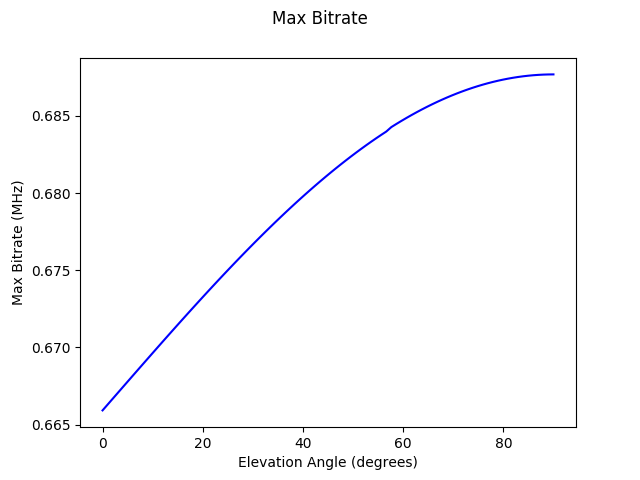
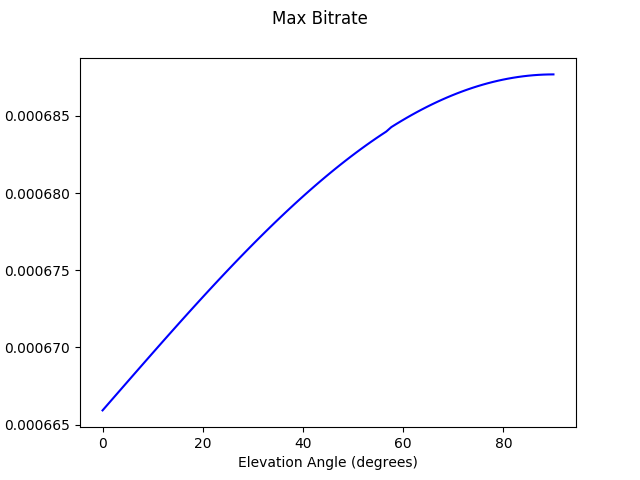
final push

diff --git a/export/interference_analysis.tex b/export/interference_analysis.tex
@@ -68,10 +68,10 @@ Polarization & RHCP & $$ \\
 \\
 \textbf{Transmitter (Satellite Ka-Band Transmitter)} & & \\
 \hline \\
-Transmit Power at PA & 50 & $dBW$ \\
+Transmit Power at PA & 20 & $dBW$ \\
 Inline Losses & 0 & $dB$ \\
-Transmit Power at Antenna & 50 & $dBW$ \\
-EIRP & 53.00 & $dBW$ \\
+Transmit Power at Antenna & 20 & $dBW$ \\
+EIRP & 23.00 & $dBW$ \\
 \\
 \end{tabular}
 
@@ -111,12 +111,12 @@ Total Channel Loss & 238.65 & $dB$ \\
 Modulation Name & DVB-S2X & $$ \\
 Modulation Code & QPSK 13/45 & $$ \\
 Tx Spectral Efficiency & 0.45 & $$ \\
-Bitrate & 1.00 & $MHz$ \\
-Bitrate & 60.00 & $dBHz$ \\
+Bitrate & 0.07 & $Hz$ \\
+Bitrate & -11.43 & $dBHz$ \\
 Required Demodulation $E_b/N_0$ & 0.43 & $dB$ \\
-Required Demod Bandwidth & 1.76 & $MHz$ \\
-Required Demod Bandwidth & 62.46 & $dBHz$ \\
-Required Transmit Bandwidth & 63.43 & $dBHz$ \\
+Required Demod Bandwidth & 0.13 & $Hz$ \\
+Required Demod Bandwidth & -8.97 & $dBHz$ \\
+Required Transmit Bandwidth & -8.00 & $dBHz$ \\
 \\
 \end{tabular}
 
@@ -144,7 +144,7 @@ Total Receiver Noise Temperature & 28.24 & $dBK$ \\
 Receive Chain Noise Temperature & 366.84 & $K$ \\
 Receive Chain Noise Factor & 2.26 & $$ \\
 Receive Chain Noise Figure & 3.55 & $dB$ \\
-Receiver Noise Bandwidth & 1.00 & $MHz$ \\
+Receiver Noise Bandwidth & 0.07 & $Hz$ \\
 Implementation Loss & 0 & $dB$ \\
 \\
 \end{tabular}
@@ -175,26 +175,26 @@ Demodulator & 0.00 & 15.00 & 8880 & 1188 & 7.47 & 0.03 & 2.04\\
   \begin{tabular}{p{3in}p{1in}l}
 \textbf{Transmitter (Satellite Ka-Band Transmitter)} & & \\
 \hline \\
-Transmit Power at Antenna & 50 & $dBW$ \\
+Transmit Power at Antenna & 20 & $dBW$ \\
 Peak Antenna Gain & 3.00 & $dBi$ \\
-Peak EIRP & 53.00 & $dBW$ \\
+Peak EIRP & 23.00 & $dBW$ \\
 Nadir-to-GS Gain & 3.00 & $dBi$ \\
-Nadir-to-GS EIRP & 53.00 & $dBW$ \\
+Nadir-to-GS EIRP & 23.00 & $dBW$ \\
 Average Antenna Gain & -12.15 & $dBi$ \\
 \\
 \textbf{Peak Power Flux Density at Receiver} & & \\
 \hline \\
-Peak PFD at Surface per 1kHz & -161.50 & $dBW/m^2/1kHz$ \\
-Peak PFD at Surface per 4kHz & -155.48 & $dBW/m^2/4kHz$ \\
-Peak PFD at Surface per 1MHz & -131.50 & $dBW/m^2/1MHz$ \\
-Peak PFD at GSO per 1kHz & -162.29 & $dBW/m^2/1kHz$ \\
-Peak PFD at GSO per 4kHz & -156.27 & $dBW/m^2/4kHz$ \\
-Peak PFD at GSO per 1MHz & -132.29 & $dBW/m^2/1MHz$ \\
+Peak PFD at Surface per 1kHz & -159.04 & $dBW/m^2/1kHz$ \\
+Peak PFD at Surface per 4kHz & -159.04 & $dBW/m^2/4kHz$ \\
+Peak PFD at Surface per 1MHz & -159.04 & $dBW/m^2/1MHz$ \\
+Peak PFD at GSO per 1kHz & -159.83 & $dBW/m^2/1kHz$ \\
+Peak PFD at GSO per 4kHz & -159.83 & $dBW/m^2/4kHz$ \\
+Peak PFD at GSO per 1MHz & -159.83 & $dBW/m^2/1MHz$ \\
 \\
 \textbf{Hey Regulators, Look In this Section} & & \\
 \hline \\
 Lowest Permissible PFD (4kHz BW) at Receiver & -150 & $dBW/m^2$ \\
-Peak Possible PFD (4kHz BW) at Receiver & -180.01 & $dBW/m^2$ \\
+Peak Possible PFD (4kHz BW) at Receiver & -210.01 & $dBW/m^2$ \\
 \\
 \end{tabular}
 
@@ -231,45 +231,45 @@ Minimum Average Bitrate & 32 & $mbps$ \\
   \begin{tabular}{p{3in}p{1in}l}
 \textbf{Transmitter (Satellite Ka-Band Transmitter)} & & \\
 \hline \\
-Power at Antenna & 50 & $dBW$ \\
+Power at Antenna & 20 & $dBW$ \\
 Gain & 3.00 & $dBi$ \\
 Antenna Pointing Loss & 0 & $dB$ \\
-EIRP & 53.00 & $dBW$ \\
+EIRP & 23.00 & $dBW$ \\
 \\
 \textbf{Channel} & & \\
 \hline \\
 Center Frequency & 32.55 & $GHz$ \\
 Free Space Loss & 234.65 & $dB$ \\
 Total Channel Loss & 238.65 & $dB$ \\
-Occupied Bandwidth & 63.43 & $dBHz$ \\
+Occupied Bandwidth & -8.00 & $dBHz$ \\
 \\
 \textbf{Receiver (Ground Ka-Band Receiver)} & & \\
 \hline \\
-Signal Power Flux at RX Antenna & -133.94 & $dBW/m^2$ \\
+Signal Power Flux at RX Antenna & -163.94 & $dBW/m^2$ \\
 Antenna Gain & 48.00 & $dBi$ \\
 Antenna Effective Area & -3.71 & $dBm^2$ \\
 Polarization Mismatch Loss & 3 & $dB$ \\
 RX System Noise Temperature & 666.84 & $K$ \\
 RX Figure of Merit ($G/T$) & 19.76 & $dB/K$ \\
 Noise Spectral Density ($N_0$) & -200.36 & $dBW/Hz$ \\
-Received Signal Power & -140.65 & $dBW$ \\
+Received Signal Power & -170.65 & $dBW$ \\
 Excess Noise BW Loss & 0.00 & $dB$ \\
 Implementation Loss & 0 & $dB$ \\
 Required Demodulation $E_b/N_0$ & 0.43 & $dB$ \\
 Antenna Pointing Loss & 0 & $dB$ \\
-Carrier to Noise ($C/N_0$) & 59.71 & $dBHz$ \\
+Carrier to Noise ($C/N_0$) & 29.71 & $dBHz$ \\
 \\
 \textbf{Eb/N0} & & \\
 \hline \\
-BitRate & 60.00 & $dBHz$ \\
-Energy per Bit ($E_b$) & -200.65 & $dBW/Hz$ \\
-Received $E_b/N_0$ & -0.29 & $dB$ \\
+BitRate & -11.43 & $dBHz$ \\
+Energy per Bit ($E_b$) & -159.22 & $dBW/Hz$ \\
+Received $E_b/N_0$ & 41.14 & $dB$ \\
 Required $E_b/N_0$ & 0.43 & $dB$ \\
 \\
 \textbf{Key Outputs} & & \\
 \hline \\
-Bitrate & 1.00 & $MHz$ \\
-Link Margin & -0.72 & $dB$ \\
+Bitrate & 0.07 & $Hz$ \\
+Link Margin & 40.71 & $dB$ \\
 \\
 \end{tabular}
 
